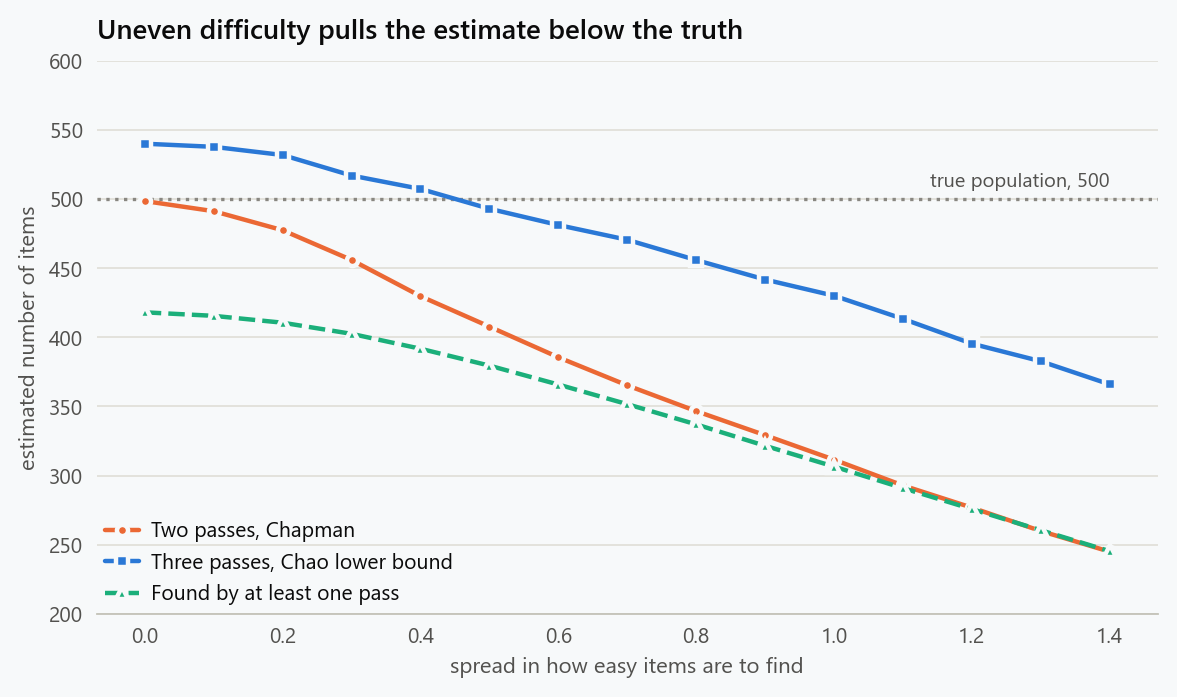
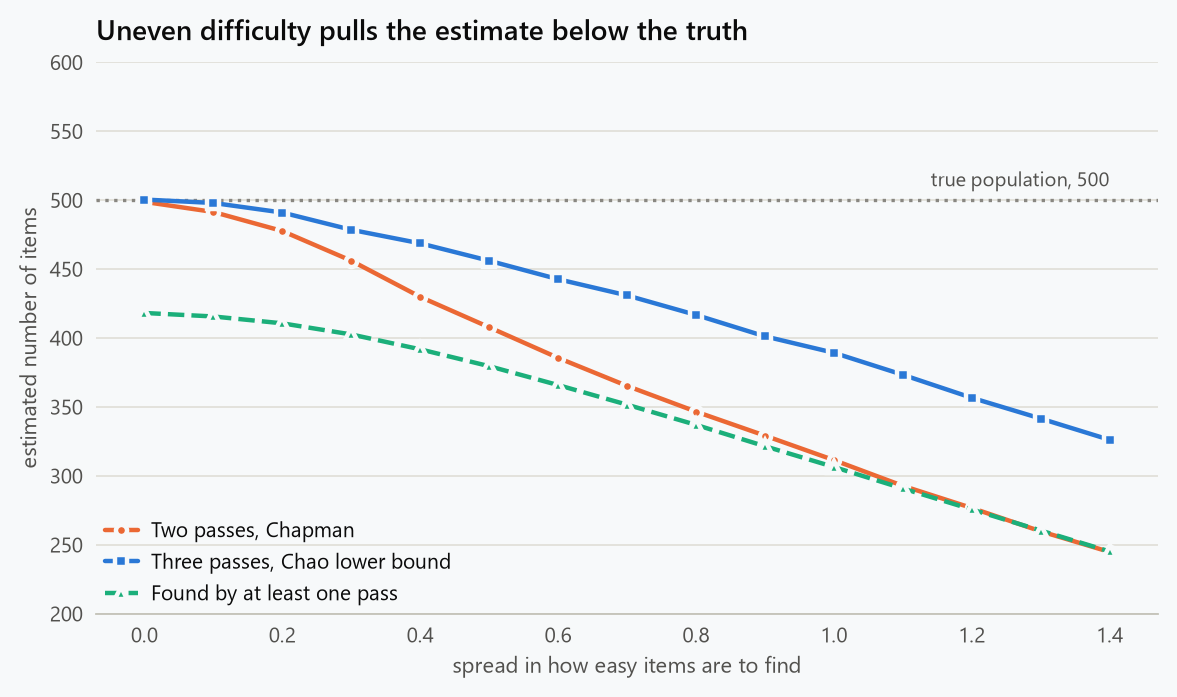
Capture-recapture: apply the (t - 1)/t factor in Chao's bound

diff --git a/_posts/statistics/2025-05-13-capture_recapture_estimating_what_was_missed.md b/_posts/statistics/2025-05-13-capture_recapture_estimating_what_was_missed.md
@@ -196,7 +196,7 @@ The bias is always downward, and it is large. At the middle row the method repor
 
 That correlation is measurable, and it is the warning sign. Cross-tabulate the two lists and compare the overlap against what independence predicts, which is $$n_1 n_2 / N$$. An overlap materially larger than that means the estimate is a lower bound rather than an estimate.
 
-![Estimated population against the spread in how easy items are to find, showing the two-pass Chapman estimate, Chao's lower bound from three passes, and the number found by at least one pass, against a true population of 500. The two-pass estimate falls away steeply as the spread grows, ending level with what was actually found, while Chao's bound stays much closer and errs low.](/assets/images/figures/capture_recapture_heterogeneity.png){: width="1152" height="672" loading="lazy"}
+![Estimated population against the spread in how easy items are to find, showing the two-pass Chapman estimate, Chao's lower bound from three passes, and the number found by at least one pass, against a true population of 500. The two-pass estimate falls away steeply as the spread grows, ending level with what was actually found, while Chao's bound starts at the truth, stays much closer and errs low once the spread grows.](/assets/images/figures/capture_recapture_heterogeneity.png){: width="1152" height="672" loading="lazy"}
 
 ## Using It to Decide Whether to Stop
 
@@ -253,12 +253,14 @@ def loglinear(a, b, c):
 
 def chao(a, b, c):
     """Chao's lower bound: items seen once and twice carry the information about
-    items seen never, and it does not assume the passes are independent."""
+    items seen never, and it does not assume the passes are independent. With t
+    passes the correction carries a factor (t - 1) / t."""
+    t = 3
     times = a.astype(int) + b.astype(int) + c.astype(int)
     d = int((times > 0).sum())
     f1 = int((times == 1).sum())
     f2 = int((times == 2).sum())
-    return d + f1 ** 2 / (2 * f2) if f2 else np.inf
+    return d + (t - 1) / t * f1 ** 2 / (2 * f2) if f2 else np.inf
 
 
 for spread in (0.0, 0.4, 0.8, 1.2):
@@ -279,10 +281,10 @@ for spread in (0.0, 0.4, 0.8, 1.2):
 
 | Spread | Seen by any pass | Two passes | Three passes with interactions | Chao lower bound |
 | --- | --- | --- | --- | --- |
-| 0.0 | 418 | 497 | 498, quartiles 482 to 520 | 543 |
-| 0.4 | 393 | 434 | 535, quartiles 503 to 576 | 509 |
-| 0.8 | 338 | 348 | 714, quartiles 618 to 839 | 460 |
-| 1.2 | 276 | 277 | 952, quartiles 755 to 1205 | 400 |
+| 0.0 | 418 | 497 | 498, quartiles 482 to 520 | 501 |
+| 0.4 | 393 | 434 | 535, quartiles 503 to 576 | 470 |
+| 0.8 | 338 | 348 | 714, quartiles 618 to 839 | 419 |
+| 1.2 | 276 | 277 | 952, quartiles 755 to 1205 | 359 |
 
 The truth is 500 in every row. When the passes really are independent, all three methods agree and the log-linear model costs nothing. As soon as items differ in difficulty, the two-pass estimate collapses downward and the log-linear model overshoots, badly and with enormous spread, because it is fitting a pairwise interaction to a dependence that is not pairwise: the passes are correlated through the items, not through each other. Chao's bound stays closest, and errs in the direction it is meant to, which is low.
 
